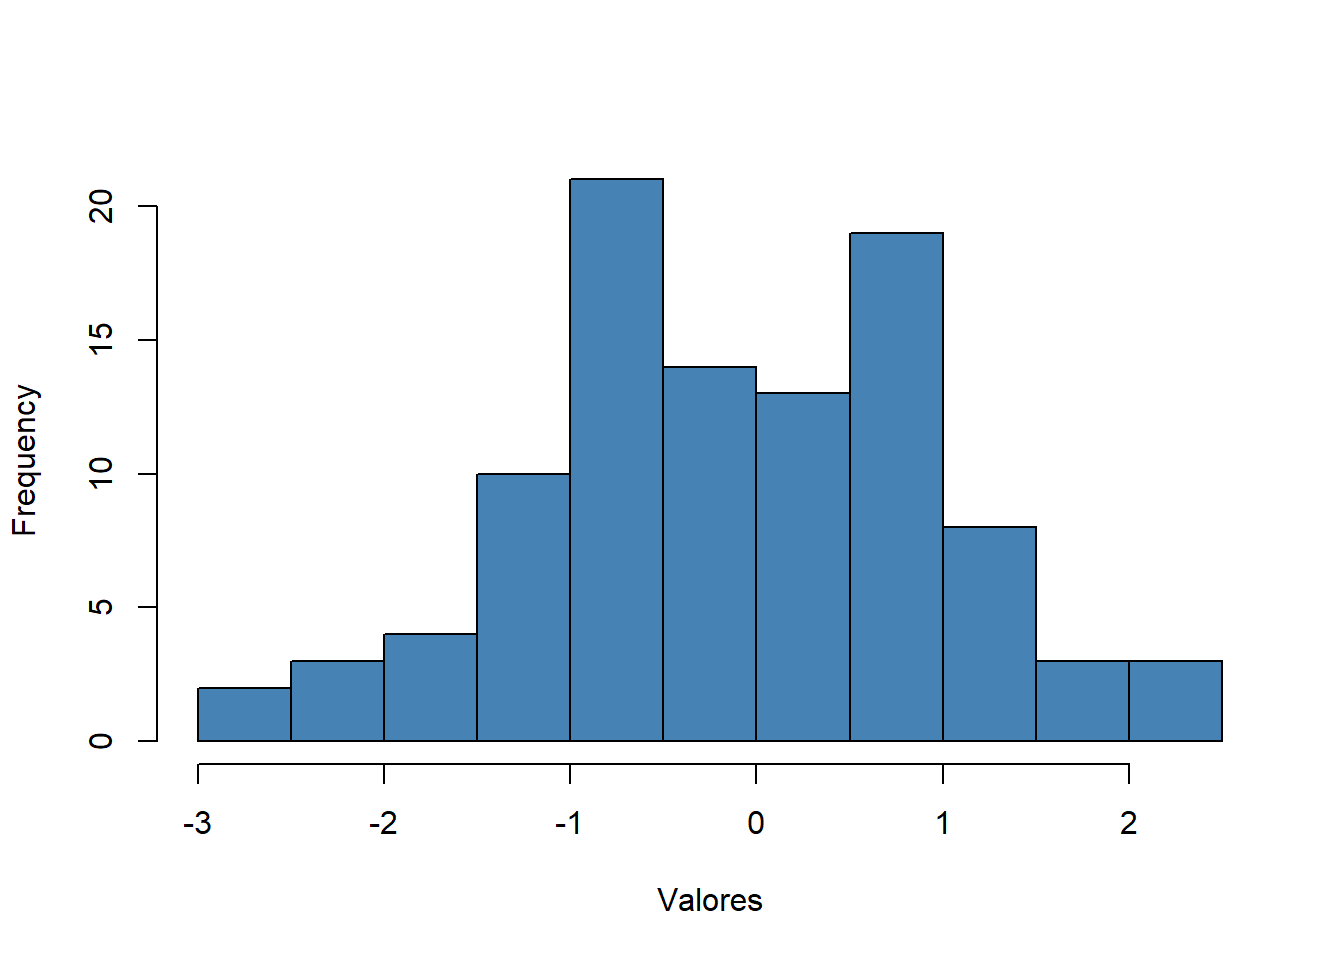
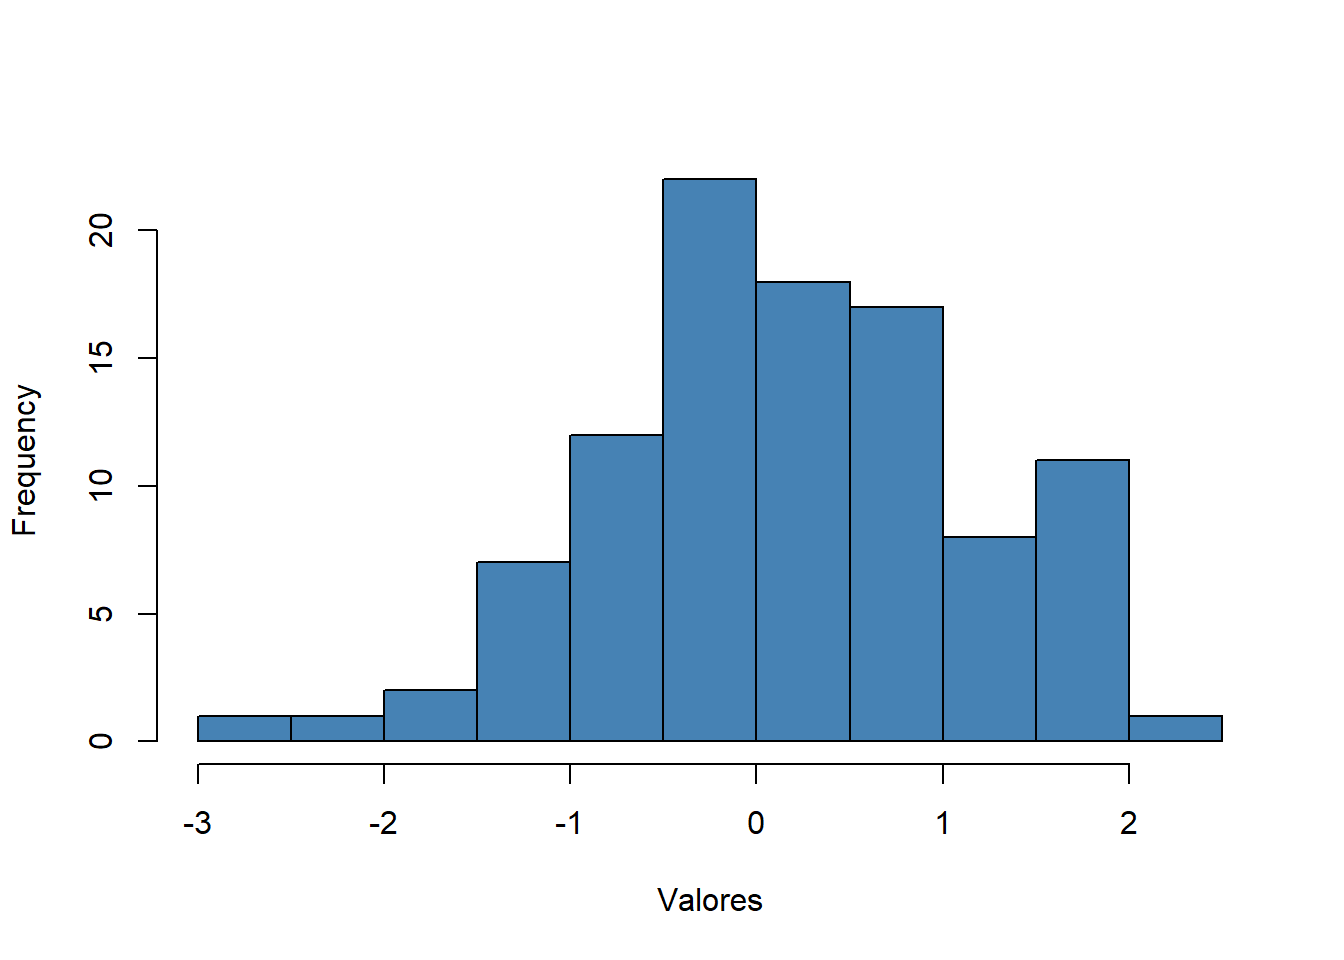
Built site for gh-pages

diff --git a/sobre.html b/sobre.html
@@ -876,10 +876,7 @@ Formação
 Minha trajetória acadêmica começou com uma curiosidade simples. Entender como as pessoas percebem, utilizam e transformam o ambiente ao seu redor. A Etnobiologia se tornou o espaço onde encontrei muitas dessas perguntas e, mais recentemente, tenho buscado explorá-las em escalas mais amplas — para além das comunidades locais — por meio da macroetnobiologia.
 </p>
 <p>
-No caminho, acabei desenvolvendo outras duas paixões: analisar dados e programar. Gosto especialmente de pensar em como a programação pode tornar as análises mais eficientes, reproduzíveis e claras, e a linguagem R acabou se tornando uma das minhas principais ferramentas nesse processo. Também tenho experiência com estatística inferencial, modelagem estatística e análise e visualização de dados tabulares e geoespaciais.
-</p>
-<p>
-Entre trabalho de campo, código, modelos, mapas e algumas horas tentando descobrir por que um <em>script</em> resolveu se rebelar, é nessa mistura de pessoas, ambiente, programação, estatística e dados que tenho construído minha trajetória científica.
+No caminho, acabei desenvolvendo outras duas paixões: Estatística e Programação. Gosto especialmente de pensar em como a programação pode tornar as análises mais eficientes, reproduzíveis e claras, e a linguagem R acabou se tornando uma das minhas principais ferramentas nesse processo. Também tenho experiência com estatística inferencial, modelagem estatística e análise e visualização de dados tabulares e geoespaciais.
 </p>
 </div>
 </section>
@@ -902,39 +899,7 @@ Hard Skills
 </h3>
 <div class="skill-row">
 <div class="skill-name">
-[x.x.x]
-</div>
-<div class="skill-dots">
-<p><span class="skill-dot active"></span> <span class="skill-dot active"></span> <span class="skill-dot active"></span> <span class="skill-dot active"></span> <span class="skill-dot active"></span> <span class="skill-dot active"></span> <span class="skill-dot active"></span></p>
-</div>
-</div>
-<div class="skill-row">
-<div class="skill-name">
-[x.x.x]
-</div>
-<div class="skill-dots">
-<p><span class="skill-dot active"></span> <span class="skill-dot active"></span> <span class="skill-dot active"></span> <span class="skill-dot active"></span> <span class="skill-dot active"></span> <span class="skill-dot active"></span> <span class="skill-dot"></span></p>
-</div>
-</div>
-<div class="skill-row">
-<div class="skill-name">
-[x.x.x]
-</div>
-<div class="skill-dots">
-<p><span class="skill-dot active"></span> <span class="skill-dot active"></span> <span class="skill-dot active"></span> <span class="skill-dot active"></span> <span class="skill-dot active"></span> <span class="skill-dot active"></span> <span class="skill-dot"></span></p>
-</div>
-</div>
-<div class="skill-row">
-<div class="skill-name">
-[x.x.x]
-</div>
-<div class="skill-dots">
-<p><span class="skill-dot active"></span> <span class="skill-dot active"></span> <span class="skill-dot active"></span> <span class="skill-dot active"></span> <span class="skill-dot active"></span> <span class="skill-dot active"></span> <span class="skill-dot active"></span></p>
-</div>
-</div>
-<div class="skill-row">
-<div class="skill-name">
-[x.x.x]
+Planejamento experimental
 </div>
 <div class="skill-dots">
 <p><span class="skill-dot active"></span> <span class="skill-dot active"></span> <span class="skill-dot active"></span> <span class="skill-dot active"></span> <span class="skill-dot active"></span> <span class="skill-dot"></span> <span class="skill-dot"></span></p>
@@ -942,52 +907,52 @@ Hard Skills
 </div>
 <div class="skill-row">
 <div class="skill-name">
-[x.x.x]
+Estatística e ecologia numérica
 </div>
 <div class="skill-dots">
-<p><span class="skill-dot active"></span> <span class="skill-dot active"></span> <span class="skill-dot active"></span> <span class="skill-dot active"></span> <span class="skill-dot active"></span> <span class="skill-dot active"></span> <span class="skill-dot active"></span></p>
+<p><span class="skill-dot active"></span> <span class="skill-dot active"></span> <span class="skill-dot active"></span> <span class="skill-dot active"></span> <span class="skill-dot active"></span> <span class="skill-dot"></span> <span class="skill-dot"></span></p>
+</div>
+</div>
+<div class="skill-row">
+<div class="skill-name">
+Métodos etnobiológicos
+</div>
+<div class="skill-dots">
+<p><span class="skill-dot active"></span> <span class="skill-dot active"></span> <span class="skill-dot active"></span> <span class="skill-dot active"></span> <span class="skill-dot active"></span> <span class="skill-dot active"></span> <span class="skill-dot"></span></p>
+</div>
+</div>
+<div class="skill-row">
+<div class="skill-name">
+Análise de sistemas socioecológicos
+</div>
+<div class="skill-dots">
+<p><span class="skill-dot active"></span> <span class="skill-dot active"></span> <span class="skill-dot active"></span> <span class="skill-dot active"></span> <span class="skill-dot active"></span> <span class="skill-dot"></span> <span class="skill-dot"></span></p>
+</div>
+</div>
+<div class="skill-row">
+<div class="skill-name">
+Meta-análise e síntese de dados
+</div>
+<div class="skill-dots">
+<p><span class="skill-dot active"></span> <span class="skill-dot active"></span> <span class="skill-dot active"></span> <span class="skill-dot active"></span> <span class="skill-dot active"></span> <span class="skill-dot"></span> <span class="skill-dot"></span></p>
+</div>
+</div>
+<div class="skill-row">
+<div class="skill-name">
+Escrita científica
+</div>
+<div class="skill-dots">
+<p><span class="skill-dot active"></span> <span class="skill-dot active"></span> <span class="skill-dot active"></span> <span class="skill-dot active"></span> <span class="skill-dot active"></span> <span class="skill-dot"></span> <span class="skill-dot"></span></p>
 </div>
 </div>
 </div>
 <div class="skills-column">
 <h3 class="anchored">
-Soft Skills
+Linguagens
 </h3>
 <div class="skill-row">
 <div class="skill-name">
-[x.x.x]
-</div>
-<div class="skill-dots">
-<p><span class="skill-dot active"></span> <span class="skill-dot active"></span> <span class="skill-dot active"></span> <span class="skill-dot active"></span> <span class="skill-dot active"></span> <span class="skill-dot active"></span> <span class="skill-dot active"></span></p>
-</div>
-</div>
-<div class="skill-row">
-<div class="skill-name">
-[x.x.x]
-</div>
-<div class="skill-dots">
-<p><span class="skill-dot active"></span> <span class="skill-dot active"></span> <span class="skill-dot active"></span> <span class="skill-dot active"></span> <span class="skill-dot active"></span> <span class="skill-dot active"></span> <span class="skill-dot"></span></p>
-</div>
-</div>
-<div class="skill-row">
-<div class="skill-name">
-[x.x.x]
-</div>
-<div class="skill-dots">
-<p><span class="skill-dot active"></span> <span class="skill-dot active"></span> <span class="skill-dot active"></span> <span class="skill-dot active"></span> <span class="skill-dot active"></span> <span class="skill-dot active"></span> <span class="skill-dot"></span></p>
-</div>
-</div>
-<div class="skill-row">
-<div class="skill-name">
-[x.x.x]
-</div>
-<div class="skill-dots">
-<p><span class="skill-dot active"></span> <span class="skill-dot active"></span> <span class="skill-dot active"></span> <span class="skill-dot active"></span> <span class="skill-dot active"></span> <span class="skill-dot active"></span> <span class="skill-dot"></span></p>
-</div>
-</div>
-<div class="skill-row">
-<div class="skill-name">
-[x.x.x]
+R (programação)
 </div>
 <div class="skill-dots">
 <p><span class="skill-dot active"></span> <span class="skill-dot active"></span> <span class="skill-dot active"></span> <span class="skill-dot active"></span> <span class="skill-dot active"></span> <span class="skill-dot"></span> <span class="skill-dot"></span></p>
@@ -995,17 +960,40 @@ Soft Skills
 </div>
 <div class="skill-row">
 <div class="skill-name">
-[x.x.x]
+Inglês (escuta/fala)
 </div>
 <div class="skill-dots">
-<p><span class="skill-dot active"></span> <span class="skill-dot active"></span> <span class="skill-dot active"></span> <span class="skill-dot active"></span> <span class="skill-dot active"></span> <span class="skill-dot"></span> <span class="skill-dot"></span></p>
+<p><span class="skill-dot active"></span> <span class="skill-dot active"></span> <span class="skill-dot"></span> <span class="skill-dot"></span> <span class="skill-dot"></span> <span class="skill-dot"></span> <span class="skill-dot"></span></p>
+</div>
+</div>
+<div class="skill-row">
+<div class="skill-name">
+Inglês (escrita)
+</div>
+<div class="skill-dots">
+<p><span class="skill-dot active"></span> <span class="skill-dot active"></span> <span class="skill-dot active"></span> <span class="skill-dot"></span> <span class="skill-dot"></span> <span class="skill-dot"></span> <span class="skill-dot"></span></p>
+</div>
+</div>
+<div class="skill-row">
+<div class="skill-name">
+Espanhol (escuta/fala)
+</div>
+<div class="skill-dots">
+<p><span class="skill-dot active"></span> <span class="skill-dot active"></span> <span class="skill-dot active"></span> <span class="skill-dot active"></span> <span class="skill-dot"></span> <span class="skill-dot"></span> <span class="skill-dot"></span></p>
+</div>
+</div>
+<div class="skill-row">
+<div class="skill-name">
+Espanhol (escrita)
+</div>
+<div class="skill-dots">
+<p><span class="skill-dot active"></span> <span class="skill-dot active"></span> <span class="skill-dot"></span> <span class="skill-dot"></span> <span class="skill-dot"></span> <span class="skill-dot"></span> <span class="skill-dot"></span></p>
 </div>
 </div>
 </div>
 </div>
 <div class="skills-legend">
-<p><span class="legend-dot"></span> <span>nível desenvolvido</span></p>
-<p><span class="legend-dot legend-empty" style="margin-left:8px;"></span> <span>a desenvolver</span></p>
+<p><span class="legend-dot"></span> <span>nível desenvolvido</span> <span class="legend-dot legend-empty" style="margin-left:8px;"></span> <span>a desenvolver</span></p>
 </div>
 </section>
 <section id="currículo" class="level2">
@@ -1014,10 +1002,8 @@ Soft Skills
 Uma versão completa da minha trajetória acadêmica e profissional está disponível no currículo abaixo.
 </p>
 <div class="cv-box">
-<p><a class="cv-button" href="cv/cv.pdf"></a></p><a class="cv-button" href="cv/cv.pdf">
-<p><i class="bi bi-file-earmark-pdf"></i></p>
-<p>Baixar CV (PDF)</p>
-</a><p><a class="cv-button" href="cv/cv.pdf"></a></p>
+<p><i class="bi bi-file-earmark-pdf"></i> Em Construção</p>
+<p></p>
 </div>
 
 

diff --git a/blog/posts/primeiro-post/index.html b/blog/posts/primeiro-post/index.html
@@ -355,7 +355,7 @@ pre > code.sourceCode > span > a:first-child::before { text-decoration: underlin
 <div class="code-copy-outer-scaffold"><div class="sourceCode cell-code" id="cb1"><pre class="sourceCode r code-with-copy"><code class="sourceCode r"><span id="cb1-1"><a href="#cb1-1" aria-hidden="true" tabindex="-1"></a>x <span class="ot">&lt;-</span> <span class="fu">rnorm</span>(<span class="dv">100</span>)</span>
 <span id="cb1-2"><a href="#cb1-2" aria-hidden="true" tabindex="-1"></a><span class="fu">mean</span>(x)</span></code></pre></div><button title="Copiar para a área de transferência" class="code-copy-button"><i class="bi"></i></button></div>
 <div class="cell-output cell-output-stdout">
-<pre><code>[1] -0.1133445</code></pre>
+<pre><code>[1] 0.1476184</code></pre>
 </div>
 </div>
 <p>E também gerar gráficos automaticamente:</p>
